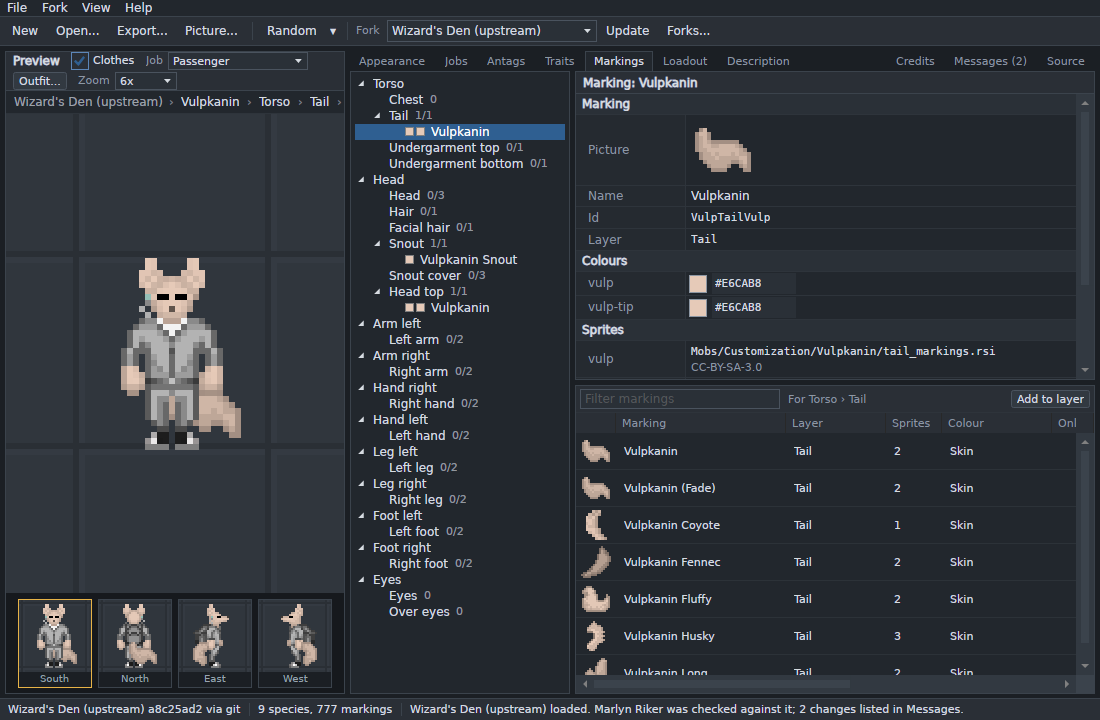
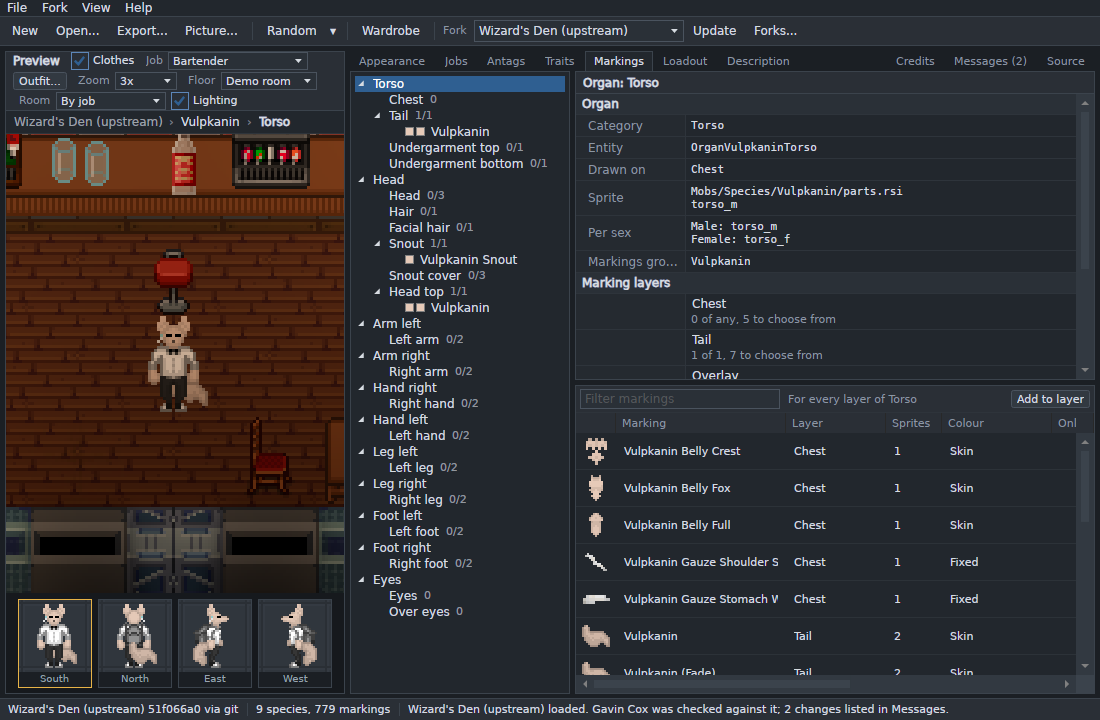
Show the demo room in the README picture

diff --git a/tests/Paperdoll.App.Tests/ScreenshotTests.cs b/tests/Paperdoll.App.Tests/ScreenshotTests.cs
@@ -62,6 +62,16 @@ public class ScreenshotTests
             if (part != null || tab != null)
                 window.ShowPart(part ?? "", tab);
             Dispatcher.UIThread.RunJobs();
+            // PAPERDOLL_SCREENSHOT_ZOOM sets the preview's zoom ("3x").
+            if (Environment.GetEnvironmentVariable("PAPERDOLL_SCREENSHOT_ZOOM") is { } zoom)
+                Avalonia.Controls.ControlExtensions.FindControl<Avalonia.Controls.ComboBox>(window, "ZoomBox")!.SelectedItem = zoom;
+            // PAPERDOLL_SCREENSHOT_FLOOR=room stands the character in the demo room.
+            if (Environment.GetEnvironmentVariable("PAPERDOLL_SCREENSHOT_FLOOR") == "room")
+            {
+                Avalonia.Controls.ControlExtensions.FindControl<Avalonia.Controls.ComboBox>(window, "FloorBox")!.SelectedIndex = DemoRoomTests.RoomItem;
+                var shown = typeof(MainWindow).GetField("_roomShown", System.Reflection.BindingFlags.NonPublic | System.Reflection.BindingFlags.Instance)!;
+                DemoRoomTests.WaitFor(() => shown.GetValue(window) != null);
+            }
             AvaloniaHeadlessPlatform.ForceRenderTimerTick();
             Dispatcher.UIThread.RunJobs();
 
